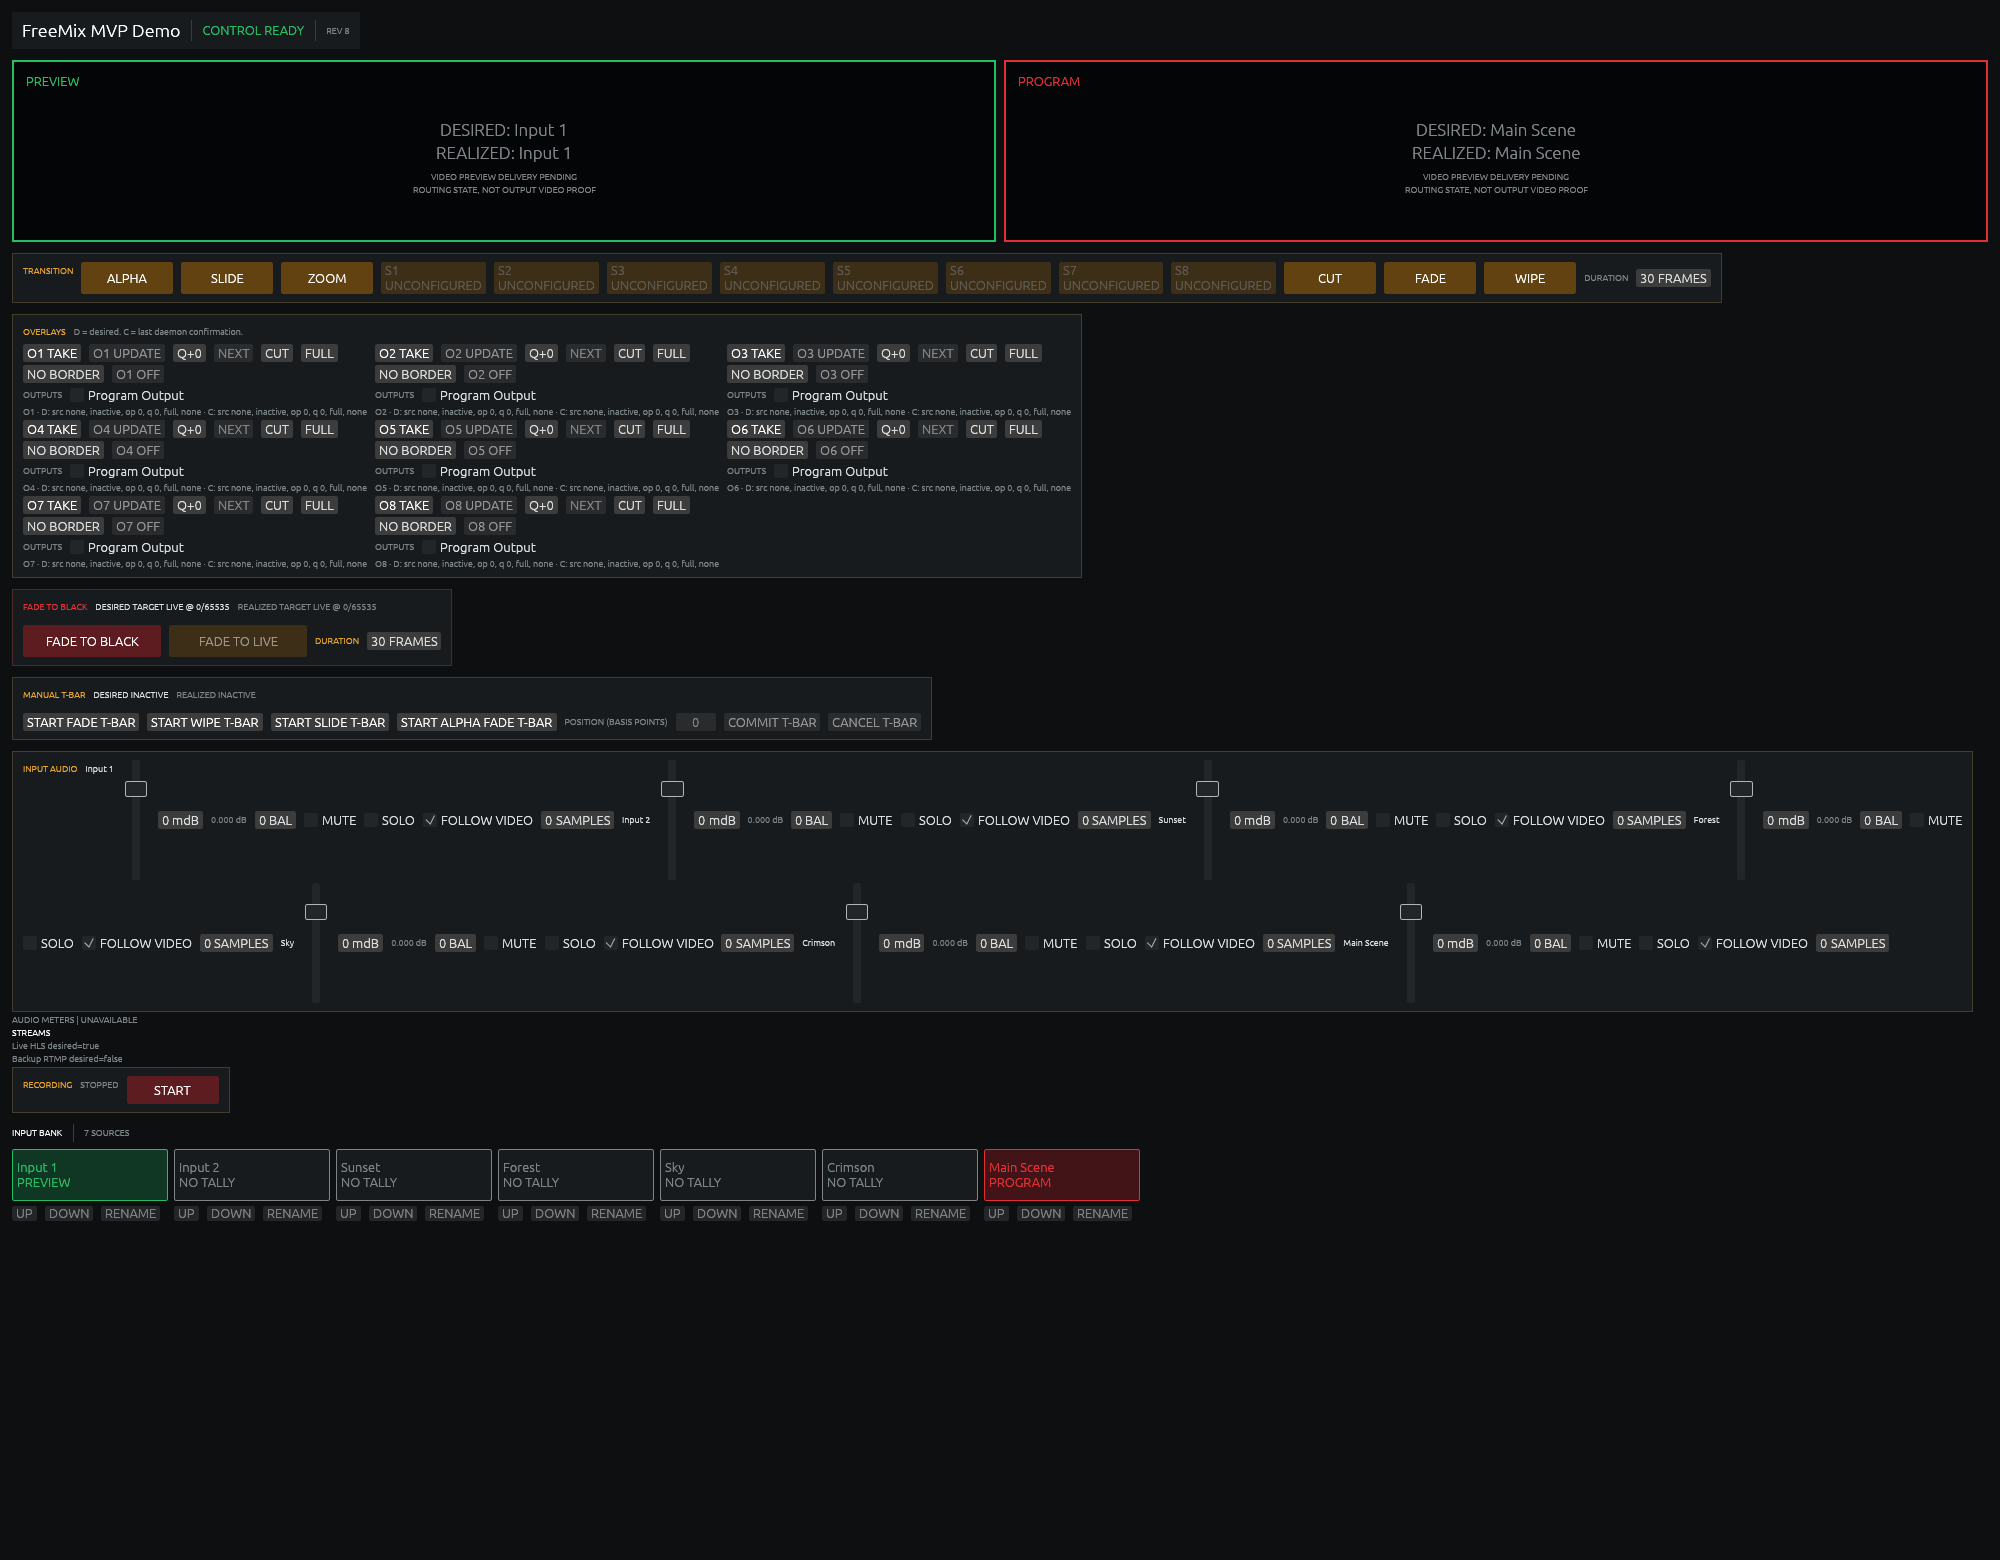
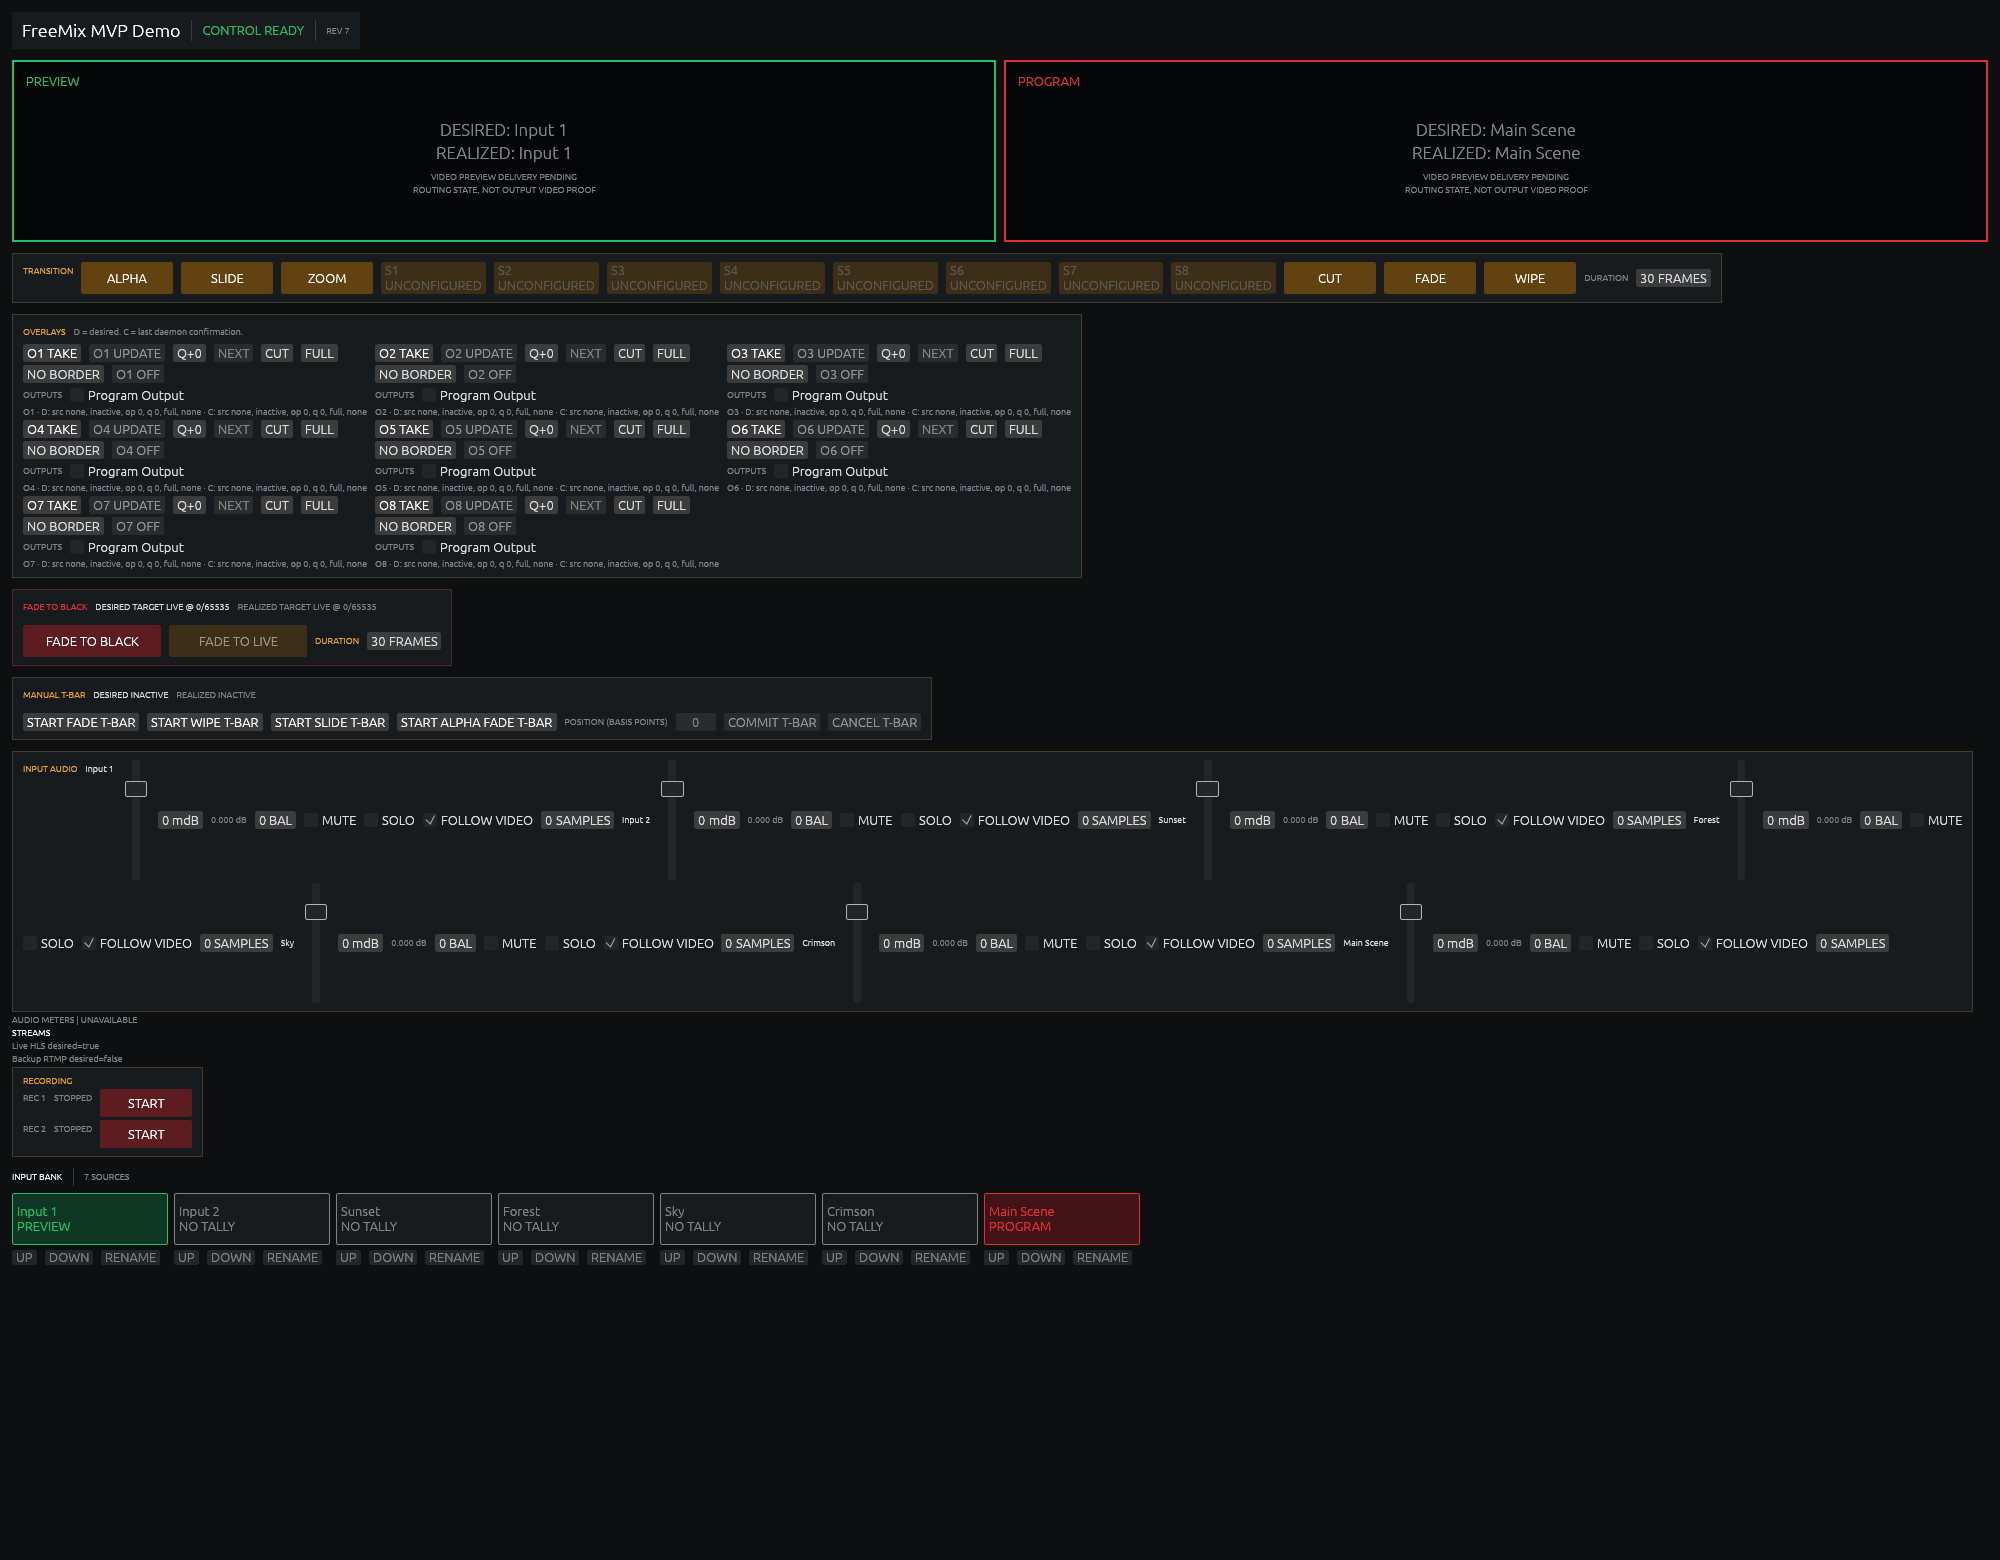
docs: record per-slot recorder control and refresh Studio screenshots
The item 4 boundary now describes the two-slot protocol, schema 23, CLI
`--recorder`, and the two-row Studio panel, and the progress screenshots
show REC 1 stopped beside REC 2 recording.

Changed region(s): [[0.0, 0.6769, 0.589, 0.8]]

diff --git a/docs/spec/implementation-roadmap.md b/docs/spec/implementation-roadmap.md
@@ -1401,12 +1401,20 @@ value keeps the encoder defaults and the previous byte-identical argv. Every
 segment also embeds a non-drop-frame start timecode derived from its absolute
 first frame index and the project's nominal frame rate (`-timecode`), so each
 segment, including every automatically rotated one, carries its own timeline
-position. Studio exposes a compact permission-gated `RECORDING` panel: it
-shows the replicated desired flag, offers exactly one Start or Stop action
-behind the Ready, view, and transition-permission gates, disables it while an
-earlier record intent is unresolved, and dispatches the field-free protocol
-record commands through the existing worker FIFO. That panel follows the one
-shared desired flag, so it is not per-slot control.
+position. Protocol 2.20 makes recording control per slot: `record_start` and
+`record_stop` address one of the two recorder slots, every acceptance emits one
+durable `recording_changed { recorder, active }` event carrying that slot's
+resulting flag, and snapshots carry the fixed two-slot `recordings` roster;
+schema 23 persists one desired flag per slot. An accepted command opens or
+drains only the addressed slot, startup reconciliation starts each configured
+slot whose restored flag is true, and one slot's start, prime, or finalization
+failure latches and reports only that slot. The CLI takes `--recorder 1|2`
+(default 1) on local and remote record commands and prints both flags, and
+Studio renders a two-row permission-gated `RECORDING` panel — one row per slot,
+each showing that slot's replicated desired flag with exactly one Start or Stop
+action behind the Ready, view, and transition-permission gates, disabled only
+while that slot's own record intent is unresolved, and dispatched through the
+existing worker FIFO as the slot-qualified protocol commands.
 
 Program segments also rotate automatically at exact frame boundaries.
 `--record-segment-seconds <1..=86400>` makes every configured slot close its
@@ -1422,18 +1430,17 @@ report off the render path. A rotation that cannot derive or open its next
 segment latches only that slot and reports a sanitized `rotate:` notice while
 the show and the other slot continue.
 
-The two slots are not independently controllable and still share the project
-encoding format and Master audio: both follow the one engine desired flag, and
-there is no per-recorder codec choice, resolution scaling, audio-map, or
-bus/channel selection, no frame- or byte-based segment policy in the daemon
-(each slot carries its own duration rule through `--record-segment-seconds`
-and `--record-segment-seconds-2`, while frames/bytes policies live in the
-unwired `fm-record` spool), no multiple-track or metadata handling, and no
-protocol or client representation of a recorder roster. That independent
-control, the codec/resolution/audio-map configuration, and `AU-010` bus
-selection remain planned; `AU-010` still depends on the planned
-`AU-002`/`AU-003`, so `OR-001`, `OR-002`, and `AU-010` are unchanged and item 4
-remains incomplete.
+The two slots are independently controllable but still share the project
+encoding format and Master audio: there is no per-recorder codec choice,
+resolution scaling, audio-map, or bus/channel selection, no frame- or
+byte-based segment policy in the daemon (each slot carries its own duration
+rule through `--record-segment-seconds` and `--record-segment-seconds-2`, while
+frames/bytes policies live in the unwired `fm-record` spool), no
+multiple-track or metadata handling, and no authored recorder roster beyond the
+fixed two slots — no names, add/remove, or per-slot startup policy. The
+codec/resolution/audio-map configuration and `AU-010` bus selection remain
+planned; `AU-010` still depends on the planned `AU-002`/`AU-003`, so `OR-001`,
+`OR-002`, and `AU-010` are unchanged and item 4 remains incomplete.
 
 Current implementation boundary for item 5: `fm-record`'s crash-safe packet
 spool now carries ISO/MultiCorder tap and timecode manifest metadata plus

diff --git a/docs/progress/README.md b/docs/progress/README.md
@@ -9,8 +9,8 @@ explicit `VIDEO PREVIEW DELIVERY PENDING` note rather than output video.
 | File | What it shows |
 |---|---|
 | `studio-console-top.png` | Default 1280x800 window: header with readiness/revision, Program/Preview monitor wells, the transition row (Cut/Fade/Wipe/AlphaFade/Slide/Zoom plus eight unconfigured stinger slots), all eight overlay channels in reachable rows, and the Fade-to-Black and manual T-bar panels. |
-| `studio-console-stopped.png` | Scrolled lower console: Fade-to-Black, manual T-bar, per-input audio strips, the stream roster (local HLS ladder desired-running plus an RTMP backup), the **RECORDING** panel showing `STOPPED` with its permission-gated `START` action, and the input bank with Preview/Program tally. |
-| `studio-console-recording.png` | The same console with the durable recording intent active: the panel shows `RECORDING` with its `STOP` action. |
+| `studio-console-stopped.png` | Scrolled lower console: Fade-to-Black, manual T-bar, per-input audio strips, the stream roster (local HLS ladder desired-running plus an RTMP backup), the two-row **RECORDING** panel with both recorder slots `STOPPED` and their `START` actions, and the input bank with Preview/Program tally. |
+| `studio-console-recording.png` | The same console with independent per-slot recording: `REC 1 STOPPED` with its `START` action beside `REC 2 RECORDING` with its `STOP` action. |
 
 The demo show used for the captures has six simulated inputs, one scene input
 with two picture-in-picture layers, an output, a two-rung local HLS ladder
